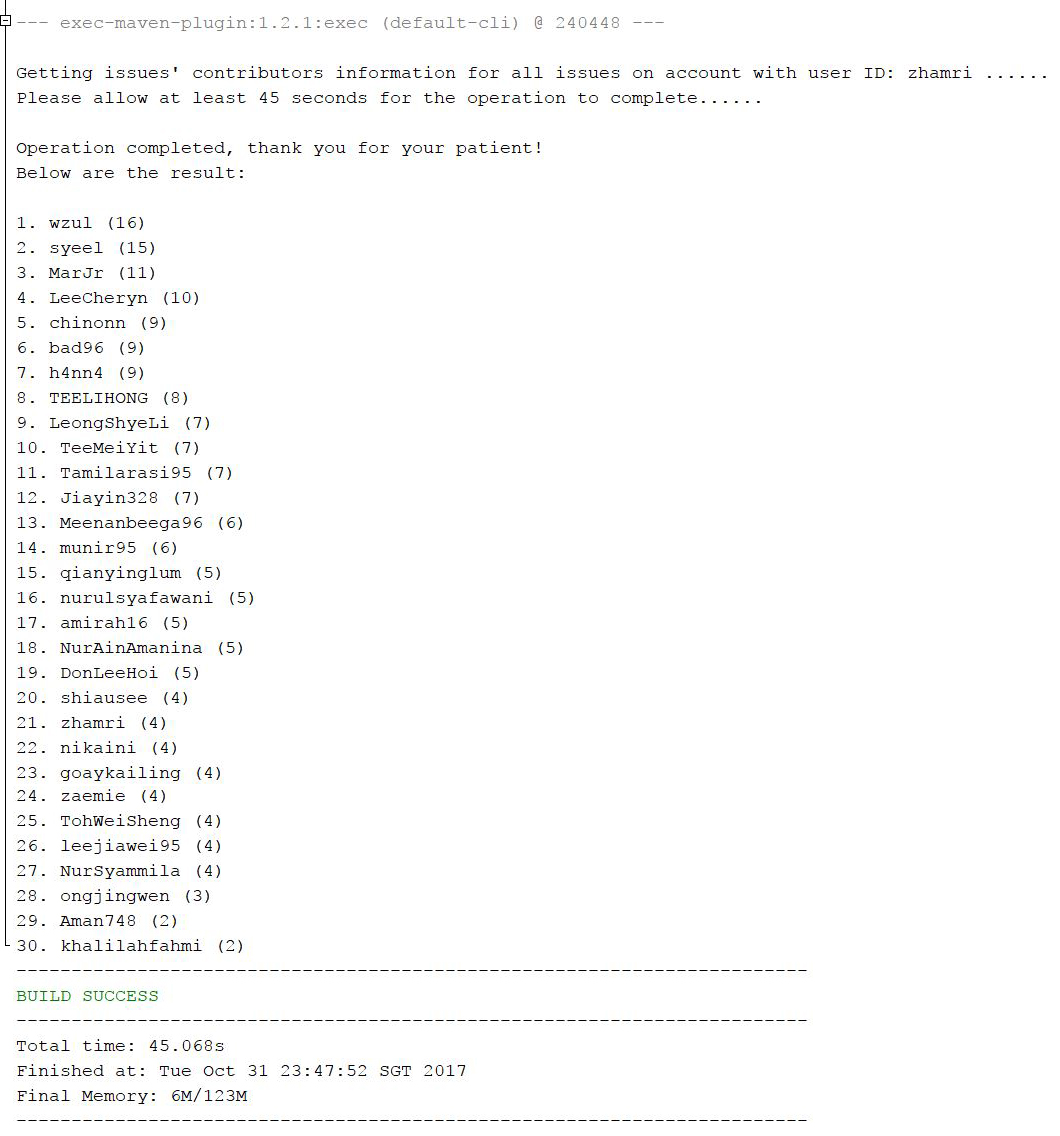
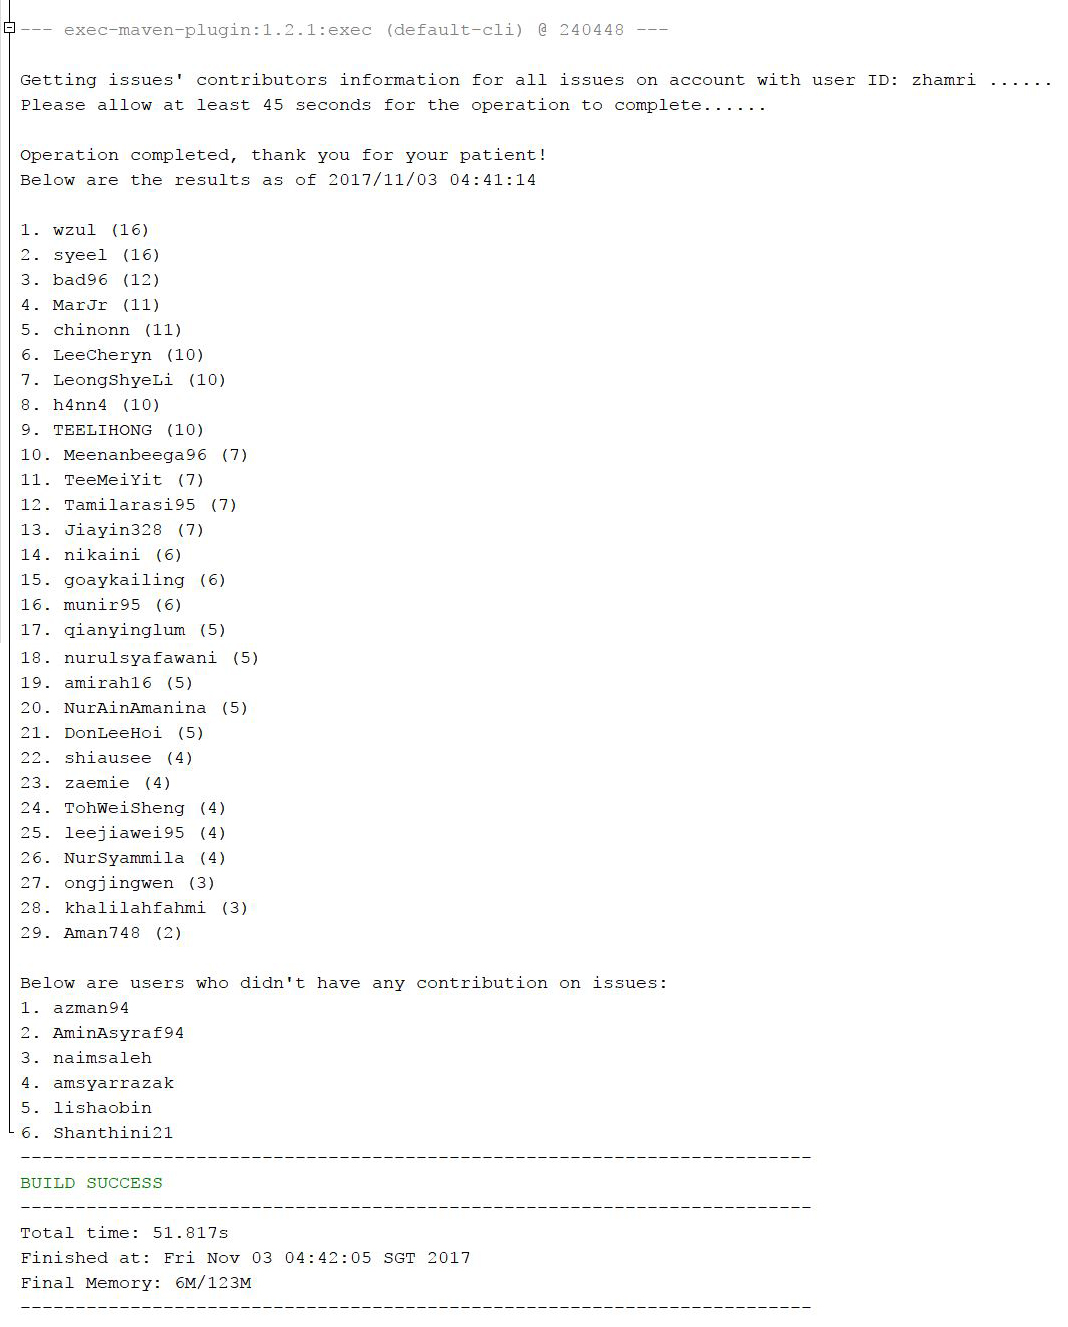
Update Week07_06 to display inactive users

diff --git a/src/main/java/Week07_06/DetermineIssueContributions.java b/src/main/java/Week07_06/DetermineIssueContributions.java
@@ -18,8 +18,12 @@
 package Week07_06;
 
 import java.io.IOException;
+import java.text.DateFormat;
+import java.text.SimpleDateFormat;
+import java.util.ArrayList;
 import java.util.Collections;
 import java.util.Comparator;
+import java.util.Date;
 import java.util.HashMap;
 import java.util.Iterator;
 import java.util.LinkedHashMap;
@@ -30,6 +34,7 @@ import java.util.Set;
 import org.kohsuke.github.GHIssue;
 import org.kohsuke.github.GHIssueComment;
 import org.kohsuke.github.GHIssueState;
+import org.kohsuke.github.GHPersonSet;
 import org.kohsuke.github.GHRepository;
 import org.kohsuke.github.GHUser;
 import org.kohsuke.github.GitHub;
@@ -40,46 +45,31 @@ public class DetermineIssueContributions {
         
         Map<String, Integer> individualContribution = new HashMap<>();
         Map<String, Integer> sortedContribution = new LinkedHashMap<>();
+        ArrayList<String> inactiveUsers = new ArrayList<>();
+        
+        DateFormat dateFormat = new SimpleDateFormat("yyyy/MM/dd HH:mm:ss");
+        Date date = new Date();
+        String dateTime = dateFormat.format(date);
         
         //Insert your github id into first parameter and password into the second
-        GitHub github = GitHub.connectUsingPassword("", ""); 
+        GitHub github = GitHub.connectUsingPassword("syeel", "8384534aA*#"); 
         String gitId = "zhamri"; //Change value to any valid user ID you want to search
-        GHUser user = github.getUser(gitId); 
+        GHUser user = github.getUser(gitId);
+        GHPersonSet<GHUser> lectFollowing = user.getFollows();
         
         int repoCount = user.getPublicRepoCount();
         Map<String,GHRepository> map = user.getRepositories();  
-        Set repoNames = map.keySet();
-        Object[] names = repoNames.toArray();
+        Set names = map.keySet();
+        Object[] repoNames = names.toArray();
         
         System.out.println("\nGetting issues' contributors information for all issues on account with user ID: " +gitId +" ......");
         System.out.println("Please allow at least 45 seconds for the operation to complete......");
         
-        for (int n=0; n<repoCount; n++){
-            GHRepository repo = user.getRepository(names[n].toString());
-            
-            if (repo.hasIssues()){
-                PagedIterable<GHIssue> issues = repo.listIssues(GHIssueState.ALL);
-                
-                for (GHIssue issue: issues){
-                    if(issue.getCommentsCount() > 0){
-                        PagedIterable<GHIssueComment> commentsForIssue = issue.listComments();
-                        
-                        for (GHIssueComment comment: commentsForIssue){
-                            String contributorId = comment.getUser().getLogin();
-                        
-                            if(!individualContribution.containsKey(contributorId)) {
-                                individualContribution.put(contributorId,1);
-                            }else {
-                                individualContribution.put(contributorId, individualContribution.get(contributorId)+1);
-                            }
-                        }
-                    }
-                }
-            }
-        }
-
+        individualContribution = getContributions(gitId, user, repoCount, repoNames);
         sortedContribution = sortByValue(individualContribution);
-        System.out.println("\nOperation completed, thank you for your patient! \nBelow are the results: \n");
+        inactiveUsers = getInactive(lectFollowing, sortedContribution);
+        
+        System.out.println("\nOperation completed, thank you for your patient! \nBelow are the results as of " +dateTime +"\n");
         
         int a=1;
         Iterator it = sortedContribution.entrySet().iterator();
@@ -90,23 +80,75 @@ public class DetermineIssueContributions {
             a++;
         }
         
+        System.out.println("\nBelow are users who didn't have any contribution on issues: ");        
+        for (int b=0; b<inactiveUsers.size(); b++){
+            System.out.println(b+1 +". " +inactiveUsers.get(b));
+        }
     }
     
     public static <K, V extends Comparable<? super V>> Map<K, V> sortByValue(Map<K, V> map) {
-        
         List<Map.Entry<K, V>> list = new LinkedList<>(map.entrySet());
         
         Collections.sort(list, new Comparator<Map.Entry<K, V>>() {
             @Override
-            public int compare(Map.Entry<K, V> o2, Map.Entry<K, V> o1) { // Put o1, then o2 for ascending sort
+            // Put o1, then o2 for ascending sort
+            public int compare(Map.Entry<K, V> o2, Map.Entry<K, V> o1) { 
                 return (o1.getValue()).compareTo( o2.getValue() );
             }
         });
 
-        Map<K, V> result = new LinkedHashMap<>();
+        Map<K, V> sortedResult = new LinkedHashMap<>();
         for (Map.Entry<K, V> entry : list) {
-            result.put(entry.getKey(), entry.getValue());
+            sortedResult.put(entry.getKey(), entry.getValue());
         }
-        return result;
-    }  
+        return sortedResult;
+    }
+    
+    public static Map<String, Integer> getContributions(String gitId, GHUser user, int repoCount, Object[] repoNames) throws IOException{
+        Map<String, Integer> individualContribution = new HashMap<>();
+        
+        for (int n=0; n<repoCount; n++){
+            GHRepository repo = user.getRepository(repoNames[n].toString());
+            
+            if (repo.hasIssues()){
+                PagedIterable<GHIssue> issues = repo.listIssues(GHIssueState.ALL);
+                
+                for (GHIssue issue: issues){
+                    if(issue.getCommentsCount() > 0){
+                        PagedIterable<GHIssueComment> commentsForIssue = issue.listComments();
+                        
+                        for (GHIssueComment comment: commentsForIssue){
+                            String contributorId = comment.getUser().getLogin();
+                            String excludeFromContributors = gitId;
+                            
+                            if(!contributorId.equals(excludeFromContributors)){
+                                if(!individualContribution.containsKey(contributorId)) {
+                                    individualContribution.put(contributorId,1);
+                                }else {
+                                    individualContribution.put(contributorId, individualContribution.get(contributorId)+1);
+                                }
+                            } 
+                        }
+                    }
+                }
+            }
+        }
+        return individualContribution; 
+    }
+    
+    public static ArrayList<String> getInactive(GHPersonSet<GHUser> students, Map sortedContributions){
+        ArrayList<String> lectFollowing = new ArrayList<>();
+        ArrayList<String> inactiveUsers = new ArrayList<>();
+        
+        for (GHUser user: students){
+            lectFollowing.add(user.getLogin());
+        }
+        
+        for (String user: lectFollowing){
+            if(!sortedContributions.containsKey(user)) {
+                inactiveUsers.add(user);
+            } 
+        }
+        return inactiveUsers;
+    }
 }
